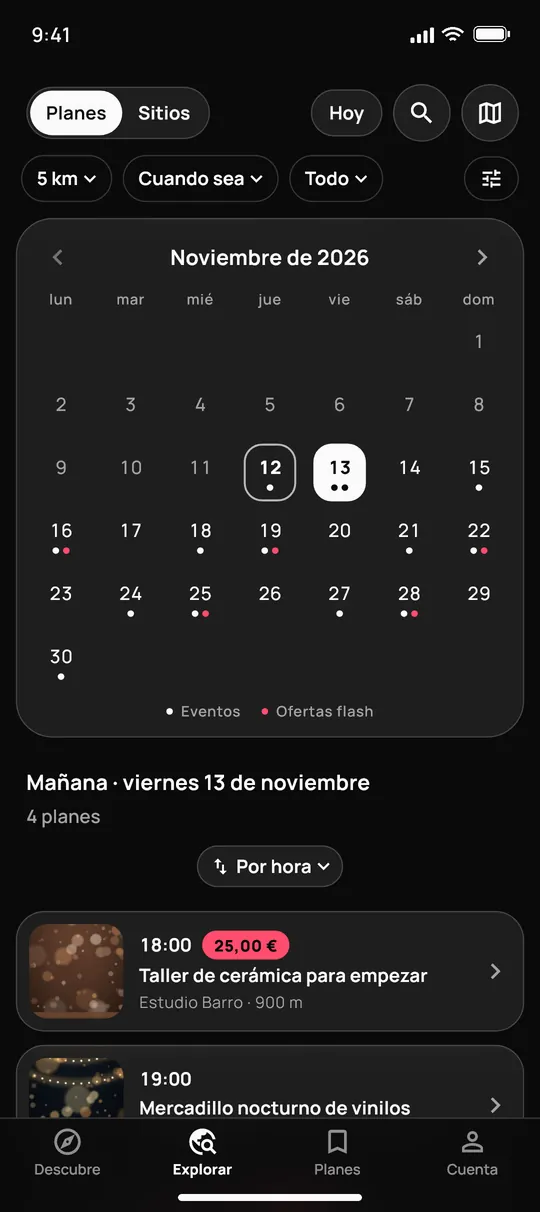
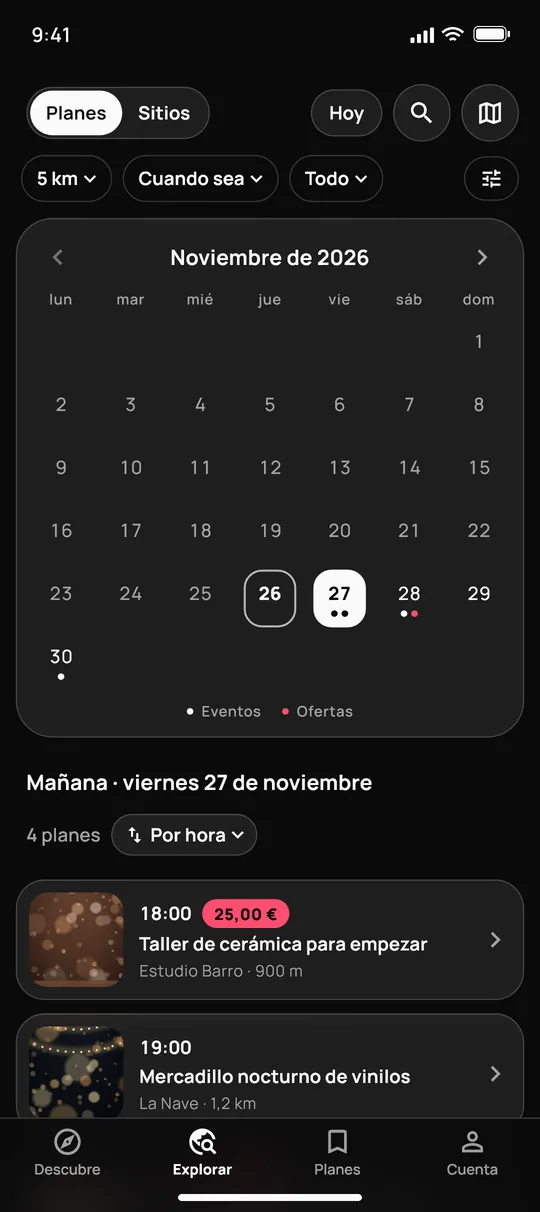
Capturas de la web al día: Descubre, la ficha del evento y la agenda (sin «Ofertas flash»), ?v=20261124
Salen de tool/store/store_screens_test.dart de la app (RUNBOOK §4zzz-tiendas). El mapa se queda (pide el emulador).

diff --git a/en.html b/en.html
@@ -77,7 +77,7 @@
     <p class="note">Android and iPhone app coming soon. Meanwhile, everything works right here.</p>
   </div>
   <div class="hero-visual">
-    <div class="phone"><img src="/assets/screens/feed.webp?v=20261106" alt="Klendar" width="540" height="1212" fetchpriority="high"></div>
+    <div class="phone"><img src="/assets/screens/feed.webp?v=20261124" alt="Klendar" width="540" height="1212" fetchpriority="high"></div>
     <div class="float a">⚡ 1 h 31 min<small>left to redeem</small></div>
     <div class="float b">📍 262 m<small>walk from you</small></div>
   </div>
@@ -98,7 +98,7 @@
   <span class="eyebrow">How it works</span>
   <h2>Look, choose and show it at the door</h2>
   <div class="pasos"><div><span class="paso-num">1</span><h3>See what's nearby</h3><p>Offers from a few hours to several days (or every week) and events with a date, sorted by distance.</p></div><div><span class="paso-num">2</span><h3>Save it or get your code</h3><p>Events go to your plans. Deals get a QR code before the countdown ends.</p></div><div><span class="paso-num">3</span><h3>Show it, done</h3><p>The business scans it. Each code works once; no cards, no weird sign-ups.</p></div></div>
-  <div class="screens compactas" tabindex="0" role="region" aria-label="This is what it looks like"><figure><div class="phone"><img src="/assets/screens/agenda.webp?v=20261106" alt="Agenda" loading="lazy" width="540" height="1212"></div><figcaption>Agenda<small>A calendar with what's on each day</small></figcaption></figure><figure><div class="phone"><img src="/assets/screens/map.webp?v=20261106" alt="Map" loading="lazy" width="540" height="1212"></div><figcaption>Map<small>Businesses with something live and how long it takes to walk</small></figcaption></figure><figure><div class="phone"><img src="/assets/screens/detail.webp?v=20261106" alt="Details" loading="lazy" width="540" height="1212"></div><figcaption>Details<small>When, where, directions and add to calendar</small></figcaption></figure></div>
+  <div class="screens compactas" tabindex="0" role="region" aria-label="This is what it looks like"><figure><div class="phone"><img src="/assets/screens/agenda.webp?v=20261124" alt="Agenda" loading="lazy" width="540" height="1212"></div><figcaption>Agenda<small>A calendar with what's on each day</small></figcaption></figure><figure><div class="phone"><img src="/assets/screens/map.webp?v=20261124" alt="Map" loading="lazy" width="540" height="1212"></div><figcaption>Map<small>Businesses with something live and how long it takes to walk</small></figcaption></figure><figure><div class="phone"><img src="/assets/screens/detail.webp?v=20261124" alt="Details" loading="lazy" width="540" height="1212"></div><figcaption>Details<small>When, where, directions and add to calendar</small></figcaption></figure></div>
   <p class="mas"><a href="/en/how-it-works">Everything Klendar does →</a></p>
 </div></section>
 

diff --git a/index.html b/index.html
@@ -77,7 +77,7 @@
     <p class="note">App para Android e iPhone, muy pronto. Mientras tanto, todo funciona desde aquí.</p>
   </div>
   <div class="hero-visual">
-    <div class="phone"><img src="/assets/screens/feed.webp?v=20261106" alt="Klendar" width="540" height="1212" fetchpriority="high"></div>
+    <div class="phone"><img src="/assets/screens/feed.webp?v=20261124" alt="Klendar" width="540" height="1212" fetchpriority="high"></div>
     <div class="float a">⚡ 1 h 31 min<small>para canjear</small></div>
     <div class="float b">📍 262 m<small>a pie desde ti</small></div>
   </div>
@@ -98,7 +98,7 @@
   <span class="eyebrow">Cómo funciona</span>
   <h2>Mira, elige y enséñalo en la puerta</h2>
   <div class="pasos"><div><span class="paso-num">1</span><h3>Mira lo que hay cerca</h3><p>Ofertas de unas horas a varios días (o cada semana) y eventos con fecha, ordenados por distancia.</p></div><div><span class="paso-num">2</span><h3>Guárdalo o pide tu código</h3><p>Los eventos, a tus planes. Las ofertas, un QR antes de que acabe la cuenta atrás.</p></div><div><span class="paso-num">3</span><h3>Enséñalo y listo</h3><p>El negocio lo escanea. Cada código vale una vez; sin tarjetas ni registros raros.</p></div></div>
-  <div class="screens compactas" tabindex="0" role="region" aria-label="Así se ve"><figure><div class="phone"><img src="/assets/screens/agenda.webp?v=20261106" alt="Agenda" loading="lazy" width="540" height="1212"></div><figcaption>Agenda<small>Calendario con lo que hay cada día</small></figcaption></figure><figure><div class="phone"><img src="/assets/screens/map.webp?v=20261106" alt="Mapa" loading="lazy" width="540" height="1212"></div><figcaption>Mapa<small>Negocios con algo activo y cuánto tardas andando</small></figcaption></figure><figure><div class="phone"><img src="/assets/screens/detail.webp?v=20261106" alt="Detalle" loading="lazy" width="540" height="1212"></div><figcaption>Detalle<small>Cuándo, dónde, cómo llegar y al calendario</small></figcaption></figure></div>
+  <div class="screens compactas" tabindex="0" role="region" aria-label="Así se ve"><figure><div class="phone"><img src="/assets/screens/agenda.webp?v=20261124" alt="Agenda" loading="lazy" width="540" height="1212"></div><figcaption>Agenda<small>Calendario con lo que hay cada día</small></figcaption></figure><figure><div class="phone"><img src="/assets/screens/map.webp?v=20261124" alt="Mapa" loading="lazy" width="540" height="1212"></div><figcaption>Mapa<small>Negocios con algo activo y cuánto tardas andando</small></figcaption></figure><figure><div class="phone"><img src="/assets/screens/detail.webp?v=20261124" alt="Detalle" loading="lazy" width="540" height="1212"></div><figcaption>Detalle<small>Cuándo, dónde, cómo llegar y al calendario</small></figcaption></figure></div>
   <p class="mas"><a href="/como-funciona">Todo lo que hace Klendar →</a></p>
 </div></section>
 

diff --git a/en/how-it-works.html b/en/how-it-works.html
@@ -85,7 +85,7 @@
 <section><div class="wrap">
   <span class="eyebrow">The app</span>
   <h2>This is what it looks like</h2>
-  <div class="screens"><figure><div class="phone"><img src="/assets/screens/agenda.webp?v=20261106" alt="Agenda" loading="lazy" width="540" height="1212"></div><figcaption>Agenda<small>A calendar with what's on each day</small></figcaption></figure><figure><div class="phone"><img src="/assets/screens/map.webp?v=20261106" alt="Map" loading="lazy" width="540" height="1212"></div><figcaption>Map<small>Businesses with something live and how long it takes to walk</small></figcaption></figure><figure><div class="phone"><img src="/assets/screens/detail.webp?v=20261106" alt="Details" loading="lazy" width="540" height="1212"></div><figcaption>Details<small>When, where, directions and add to calendar</small></figcaption></figure></div>
+  <div class="screens"><figure><div class="phone"><img src="/assets/screens/agenda.webp?v=20261124" alt="Agenda" loading="lazy" width="540" height="1212"></div><figcaption>Agenda<small>A calendar with what's on each day</small></figcaption></figure><figure><div class="phone"><img src="/assets/screens/map.webp?v=20261124" alt="Map" loading="lazy" width="540" height="1212"></div><figcaption>Map<small>Businesses with something live and how long it takes to walk</small></figcaption></figure><figure><div class="phone"><img src="/assets/screens/detail.webp?v=20261124" alt="Details" loading="lazy" width="540" height="1212"></div><figcaption>Details<small>When, where, directions and add to calendar</small></figcaption></figure></div>
   <p class="mas"><a href="/en/faq">All questions</a> · <a href="/en/support">Support</a></p>
 </div></section>
 </main>

diff --git a/como-funciona.html b/como-funciona.html
@@ -85,7 +85,7 @@
 <section><div class="wrap">
   <span class="eyebrow">La app</span>
   <h2>Así se ve</h2>
-  <div class="screens"><figure><div class="phone"><img src="/assets/screens/agenda.webp?v=20261106" alt="Agenda" loading="lazy" width="540" height="1212"></div><figcaption>Agenda<small>Calendario con lo que hay cada día</small></figcaption></figure><figure><div class="phone"><img src="/assets/screens/map.webp?v=20261106" alt="Mapa" loading="lazy" width="540" height="1212"></div><figcaption>Mapa<small>Negocios con algo activo y cuánto tardas andando</small></figcaption></figure><figure><div class="phone"><img src="/assets/screens/detail.webp?v=20261106" alt="Detalle" loading="lazy" width="540" height="1212"></div><figcaption>Detalle<small>Cuándo, dónde, cómo llegar y al calendario</small></figcaption></figure></div>
+  <div class="screens"><figure><div class="phone"><img src="/assets/screens/agenda.webp?v=20261124" alt="Agenda" loading="lazy" width="540" height="1212"></div><figcaption>Agenda<small>Calendario con lo que hay cada día</small></figcaption></figure><figure><div class="phone"><img src="/assets/screens/map.webp?v=20261124" alt="Mapa" loading="lazy" width="540" height="1212"></div><figcaption>Mapa<small>Negocios con algo activo y cuánto tardas andando</small></figcaption></figure><figure><div class="phone"><img src="/assets/screens/detail.webp?v=20261124" alt="Detalle" loading="lazy" width="540" height="1212"></div><figcaption>Detalle<small>Cuándo, dónde, cómo llegar y al calendario</small></figcaption></figure></div>
   <p class="mas"><a href="/preguntas">Todas las preguntas</a> · <a href="/soporte">Soporte</a></p>
 </div></section>
 </main>

diff --git a/prensa.html b/prensa.html
@@ -74,7 +74,7 @@
 <h2>Material</h2>
 <ul>
   <li><a href="/assets/icon-512.png">Icono (PNG 512)</a> · <a href="/assets/symbol.png">Símbolo</a> · <a href="/assets/og.png">Imagen social</a></li>
-  <li>Capturas: <a href="/assets/screens/feed.webp?v=20261106">descubrir</a> · <a href="/assets/screens/detail.webp?v=20261106">ficha</a> · <a href="/assets/screens/agenda.webp?v=20261106">agenda</a> · <a href="/assets/screens/map.webp?v=20261106">mapa</a></li>
+  <li>Capturas: <a href="/assets/screens/feed.webp?v=20261124">descubrir</a> · <a href="/assets/screens/detail.webp?v=20261124">ficha</a> · <a href="/assets/screens/agenda.webp?v=20261124">agenda</a> · <a href="/assets/screens/map.webp?v=20261124">mapa</a></li>
   <li><a href="/assets/kit/klendar-guia-negocios.pdf">Guía para negocios (PDF)</a> · <a href="/assets/kit/klendar-cartel.pdf">Cartel con QR (PDF)</a></li>
 </ul>
 <p class="note">El nombre se escribe <strong>Klendar</strong>, con K y sin acentos. El color de marca es el coral <code>#FF4D6D</code> sobre fondo tinta <code>#0A0A0A</code>. Se puede usar el logotipo tal cual, sin deformarlo ni cambiarle el color.</p>

diff --git a/en/press.html b/en/press.html
@@ -74,7 +74,7 @@
 <h2>Assets</h2>
 <ul>
   <li><a href="/assets/icon-512.png">Icon (PNG 512)</a> · <a href="/assets/symbol.png">Symbol</a> · <a href="/assets/og.png">Social image</a></li>
-  <li>Screenshots: <a href="/assets/screens/feed.webp?v=20261106">discover</a> · <a href="/assets/screens/detail.webp?v=20261106">detail</a> · <a href="/assets/screens/agenda.webp?v=20261106">agenda</a> · <a href="/assets/screens/map.webp?v=20261106">map</a></li>
+  <li>Screenshots: <a href="/assets/screens/feed.webp?v=20261124">discover</a> · <a href="/assets/screens/detail.webp?v=20261124">detail</a> · <a href="/assets/screens/agenda.webp?v=20261124">agenda</a> · <a href="/assets/screens/map.webp?v=20261124">map</a></li>
   <li><a href="/assets/kit/klendar-guia-negocios.pdf">Business guide (PDF, Spanish)</a> · <a href="/assets/kit/klendar-cartel.pdf">Poster with QR (PDF)</a></li>
 </ul>
 <p class="note">The name is written <strong>Klendar</strong>, with a K. The brand colour is coral <code>#FF4D6D</code> on ink <code>#0A0A0A</code>. The logo can be used as it is, without stretching it or changing its colour.</p>

diff --git a/build_site.py b/build_site.py
@@ -344,7 +344,7 @@ def landing(t):
 {{"@type":"MobileApplication","name":"Klendar","operatingSystem":"Android, iOS","applicationCategory":"LifestyleApplication","offers":{{"@type":"Offer","price":"0","priceCurrency":"EUR"}},"description":"{t['desc']}"}}]}}</script>'''
     steps = ''.join(f'<div class="step"><h3>{h}</h3><p>{p}</p></div>' for h, p in t['steps'])
     feats = ''.join(f'<div class="card"><div class="ic">{i}</div><h3>{h}</h3><p>{p}</p></div>' for i, h, p in t['feats'])
-    screens = ''.join(f'<figure><div class="phone"><img src="/assets/screens/{f}.webp?v=20261106" alt="{h}" loading="lazy" width="540" height="1212"></div><figcaption>{h}<small>{s}</small></figcaption></figure>' for f, h, s in t['screens'])
+    screens = ''.join(f'<figure><div class="phone"><img src="/assets/screens/{f}.webp?v=20261124" alt="{h}" loading="lazy" width="540" height="1212"></div><figcaption>{h}<small>{s}</small></figcaption></figure>' for f, h, s in t['screens'])
     points = ''.join(f'<li>{p}</li>' for p in t['biz_points'])
     stats = ''.join(f'<div><b>{b}</b><span>{s}</span></div>' for b, s in t['biz_stats'])
     faqs = ''.join(f'<details><summary>{q}</summary><p>{a}</p></details>' for q, a in t['faqs'])
@@ -368,7 +368,7 @@ def landing(t):
     <p class="note">{t['app_note']}</p>
   </div>
   <div class="hero-visual">
-    <div class="phone"><img src="/assets/screens/feed.webp?v=20261106" alt="Klendar" width="540" height="1212" fetchpriority="high"></div>
+    <div class="phone"><img src="/assets/screens/feed.webp?v=20261124" alt="Klendar" width="540" height="1212" fetchpriority="high"></div>
     <div class="float a">{fa[0]}<small>{fa[1]}</small></div>
     <div class="float b">{fb[0]}<small>{fb[1]}</small></div>
   </div>
@@ -435,7 +435,7 @@ def como_funciona(t):
     path = t['how_url']
     steps = ''.join(f'<div class="step"><h3>{h}</h3><p>{p}</p></div>' for h, p in t['steps'])
     feats = ''.join(f'<div class="card"><div class="ic">{i}</div><h3>{h}</h3><p>{p}</p></div>' for i, h, p in t['feats'])
-    screens = ''.join(f'<figure><div class="phone"><img src="/assets/screens/{f}.webp?v=20261106" alt="{h}" loading="lazy" width="540" height="1212"></div><figcaption>{h}<small>{s_}</small></figcaption></figure>' for f, h, s_ in t['screens'])
+    screens = ''.join(f'<figure><div class="phone"><img src="/assets/screens/{f}.webp?v=20261124" alt="{h}" loading="lazy" width="540" height="1212"></div><figcaption>{h}<small>{s_}</small></figcaption></figure>' for f, h, s_ in t['screens'])
     body = f'''
 <main id="contenido">
 <section class="junto" style="padding-top:48px"><div class="wrap">

diff --git a/build_pages.py b/build_pages.py
@@ -417,7 +417,7 @@ PAGINAS['prensa'] = (
 <h2>Material</h2>
 <ul>
   <li><a href="/assets/icon-512.png">Icono (PNG 512)</a> · <a href="/assets/symbol.png">Símbolo</a> · <a href="/assets/og.png">Imagen social</a></li>
-  <li>Capturas: <a href="/assets/screens/feed.webp?v=20261106">descubrir</a> · <a href="/assets/screens/detail.webp?v=20261106">ficha</a> · <a href="/assets/screens/agenda.webp?v=20261106">agenda</a> · <a href="/assets/screens/map.webp?v=20261106">mapa</a></li>
+  <li>Capturas: <a href="/assets/screens/feed.webp?v=20261124">descubrir</a> · <a href="/assets/screens/detail.webp?v=20261124">ficha</a> · <a href="/assets/screens/agenda.webp?v=20261124">agenda</a> · <a href="/assets/screens/map.webp?v=20261124">mapa</a></li>
   <li><a href="/assets/kit/klendar-guia-negocios.pdf">Guía para negocios (PDF)</a> · <a href="/assets/kit/klendar-cartel.pdf">Cartel con QR (PDF)</a></li>
 </ul>
 <p class="note">El nombre se escribe <strong>Klendar</strong>, con K y sin acentos. El color de marca es el coral <code>#FF4D6D</code> sobre fondo tinta <code>#0A0A0A</code>. Se puede usar el logotipo tal cual, sin deformarlo ni cambiarle el color.</p>
@@ -441,7 +441,7 @@ PAGINAS['prensa'] = (
 <h2>Assets</h2>
 <ul>
   <li><a href="/assets/icon-512.png">Icon (PNG 512)</a> · <a href="/assets/symbol.png">Symbol</a> · <a href="/assets/og.png">Social image</a></li>
-  <li>Screenshots: <a href="/assets/screens/feed.webp?v=20261106">discover</a> · <a href="/assets/screens/detail.webp?v=20261106">detail</a> · <a href="/assets/screens/agenda.webp?v=20261106">agenda</a> · <a href="/assets/screens/map.webp?v=20261106">map</a></li>
+  <li>Screenshots: <a href="/assets/screens/feed.webp?v=20261124">discover</a> · <a href="/assets/screens/detail.webp?v=20261124">detail</a> · <a href="/assets/screens/agenda.webp?v=20261124">agenda</a> · <a href="/assets/screens/map.webp?v=20261124">map</a></li>
   <li><a href="/assets/kit/klendar-guia-negocios.pdf">Business guide (PDF, Spanish)</a> · <a href="/assets/kit/klendar-cartel.pdf">Poster with QR (PDF)</a></li>
 </ul>
 <p class="note">The name is written <strong>Klendar</strong>, with a K. The brand colour is coral <code>#FF4D6D</code> on ink <code>#0A0A0A</code>. The logo can be used as it is, without stretching it or changing its colour.</p>
